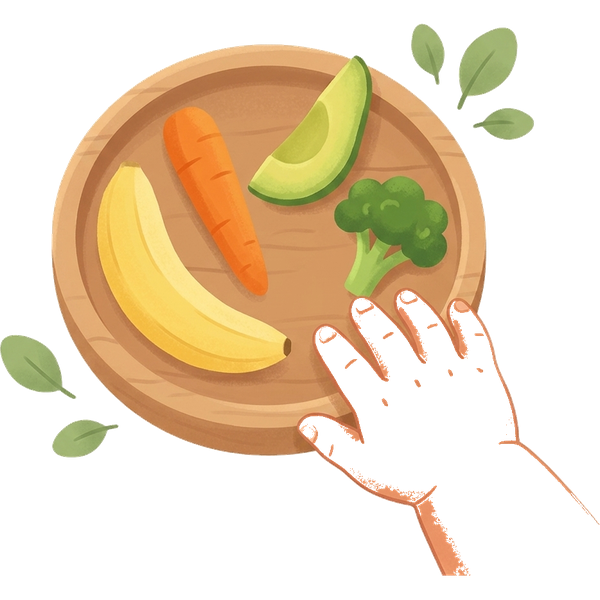
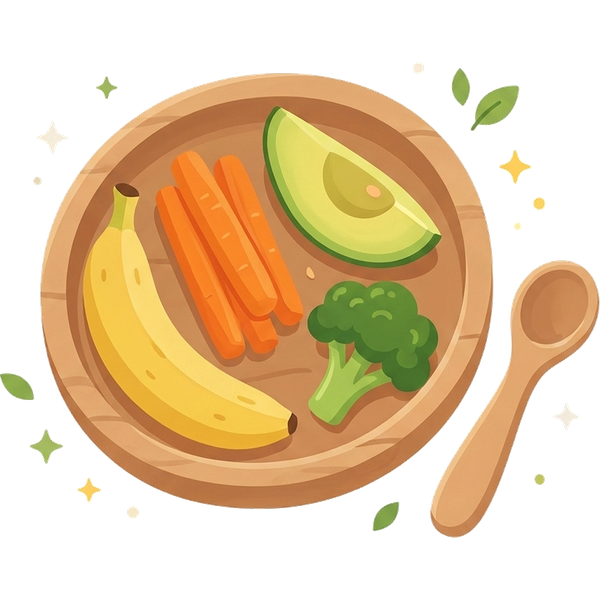
feat: paywall final polish + bump 1.5.0
- Features list in a dark translucent panel (hierarchy)
- Selected plan: translucent style (no solid white competing with CTA)
- Trial note removed; CTA reads Start Free Trial (localized)
- Bolder subtitle and feature text; more breathing room above CTA
- New onboarding screen-2 illustration (no hands)

diff --git a/blw/lib/widgets/paywall_view.dart b/blw/lib/widgets/paywall_view.dart
@@ -209,16 +209,25 @@ class _PaywallViewState extends State<PaywallView> {
                       children: [
                         const SizedBox(height: 4),
                         _buildHero(l10n),
-                        const SizedBox(height: 14),
-                        _buildFeatures(l10n),
-                        const SizedBox(height: 18),
-                        _buildPlans(l10n, premium),
-                        const SizedBox(height: 10),
-                        _buildTrialNote(l10n, premium),
+                        const SizedBox(height: 26),
+                        Container(
+                          width: double.infinity,
+                          padding: const EdgeInsets.symmetric(
+                              horizontal: 14, vertical: 10),
+                          decoration: BoxDecoration(
+                            color: Colors.black.withValues(alpha: 0.10),
+                            borderRadius: BorderRadius.circular(22),
+                          ),
+                          child: _buildFeatures(l10n),
+                        ),
                         const SizedBox(height: 12),
                       ],
                     ),
                   ),
+                ),
+                Padding(
+                  padding: const EdgeInsets.symmetric(horizontal: 24),
+                  child: _buildPlans(l10n, premium),
                 ),
                 _buildFooter(l10n, premium),
               ],
@@ -299,7 +308,8 @@ class _PaywallViewState extends State<PaywallView> {
           textAlign: TextAlign.center,
           style: TextStyle(
             fontSize: 16,
-            color: Colors.white.withValues(alpha: 0.9),
+            fontWeight: FontWeight.w600,
+            color: Colors.white.withValues(alpha: 0.92),
             height: 1.4,
             letterSpacing: -0.2,
           ),
@@ -335,7 +345,7 @@ class _PaywallViewState extends State<PaywallView> {
                   f.$2,
                   style: const TextStyle(
                     fontSize: 16,
-                    fontWeight: FontWeight.w500,
+                    fontWeight: FontWeight.w600,
                     color: Colors.white,
                     letterSpacing: -0.3,
                   ),
@@ -393,21 +403,9 @@ class _PaywallViewState extends State<PaywallView> {
     );
   }
 
-  Widget _buildTrialNote(AppLocalizations l10n, PremiumProvider premium) {
-    return Text(
-      l10n.trialNote,
-      textAlign: TextAlign.center,
-      style: TextStyle(
-        fontSize: 12.5,
-        color: Colors.white.withValues(alpha: 0.85),
-        height: 1.4,
-      ),
-    );
-  }
-
   Widget _buildFooter(AppLocalizations l10n, PremiumProvider premium) {
     return Padding(
-      padding: const EdgeInsets.fromLTRB(24, 8, 24, 16),
+      padding: const EdgeInsets.fromLTRB(24, 20, 24, 16),
       child: Column(
         mainAxisSize: MainAxisSize.min,
         children: [
@@ -431,7 +429,7 @@ class _PaywallViewState extends State<PaywallView> {
               child: premium.purchasePending
                   ? const CupertinoActivityIndicator(color: Color(0xFF1B9A43))
                   : Text(
-                      l10n.continueButton,
+                      l10n.startTrialButton,
                       style: const TextStyle(
                         fontSize: 18,
                         fontWeight: FontWeight.w700,
@@ -509,20 +507,17 @@ class _PlanCard extends StatelessWidget {
 
   @override
   Widget build(BuildContext context) {
-    const Color accent = Color(0xFF1B9A43);
-    final Color cardColor =
-        selected ? Colors.white : Colors.white.withValues(alpha: 0.15);
-    final Color titleColor = selected ? AppColors.textPrimary : Colors.white;
-    final Color priceColor = selected ? AppColors.textPrimary : Colors.white;
-    final Color subtitleColor =
-        selected ? accent : Colors.white.withValues(alpha: 0.9);
-    final Color periodColor = selected
-        ? AppColors.textSecondary
-        : Colors.white.withValues(alpha: 0.85);
+    final Color cardColor = selected
+        ? Colors.white.withValues(alpha: 0.28)
+        : Colors.white.withValues(alpha: 0.12);
+    const Color titleColor = Colors.white;
+    const Color priceColor = Colors.white;
+    final Color subtitleColor = Colors.white.withValues(alpha: 0.95);
+    final Color periodColor = Colors.white.withValues(alpha: 0.85);
     final Color checkColor =
-        selected ? accent : Colors.white.withValues(alpha: 0.85);
+        selected ? Colors.white : Colors.white.withValues(alpha: 0.7);
     final Color borderColor =
-        selected ? Colors.white : Colors.white.withValues(alpha: 0.4);
+        selected ? Colors.white : Colors.white.withValues(alpha: 0.35);
 
     return GestureDetector(
       onTap: onTap,

diff --git a/blw/lib/l10n/app_localizations.dart b/blw/lib/l10n/app_localizations.dart
@@ -554,7 +554,7 @@ const Map<String, String> _ptTranslations = {
   // Food detail
   'category': 'Categoria',
   'babyAge': 'Idade do bebê',
-  'startTrialButton': 'Iniciar 3 dias grátis',
+  'startTrialButton': 'Iniciar teste grátis',
   'notIntroducedYet': 'Ainda não introduzido',
   'tryNext': 'Experimente a seguir',
   'searchFoods': 'Buscar alimento...',
@@ -1153,7 +1153,7 @@ const Map<String, String> _enTranslations = {
   // Food detail
   'category': 'Category',
   'babyAge': "Baby's age",
-  'startTrialButton': 'Start 3-Day Free Trial',
+  'startTrialButton': 'Start Free Trial',
   'notIntroducedYet': 'Not introduced yet',
   'tryNext': 'Try next',
   'searchFoods': 'Search foods...',
@@ -1753,7 +1753,7 @@ const Map<String, String> _esTranslations = {
   // Food detail
   'category': 'Categoria',
   'babyAge': 'Edad del bebé',
-  'startTrialButton': 'Comenzar 3 días gratis',
+  'startTrialButton': 'Comenzar prueba gratis',
   'notIntroducedYet': 'Aún no introducido',
   'tryNext': 'Prueba a continuación',
   'searchFoods': 'Buscar alimento...',
